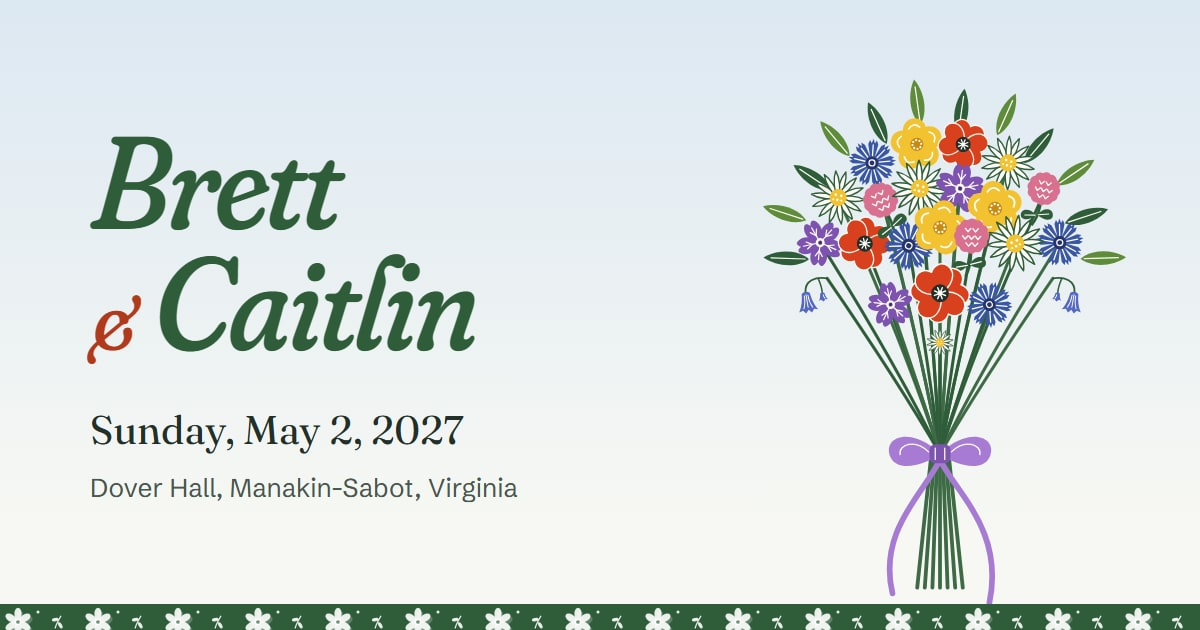
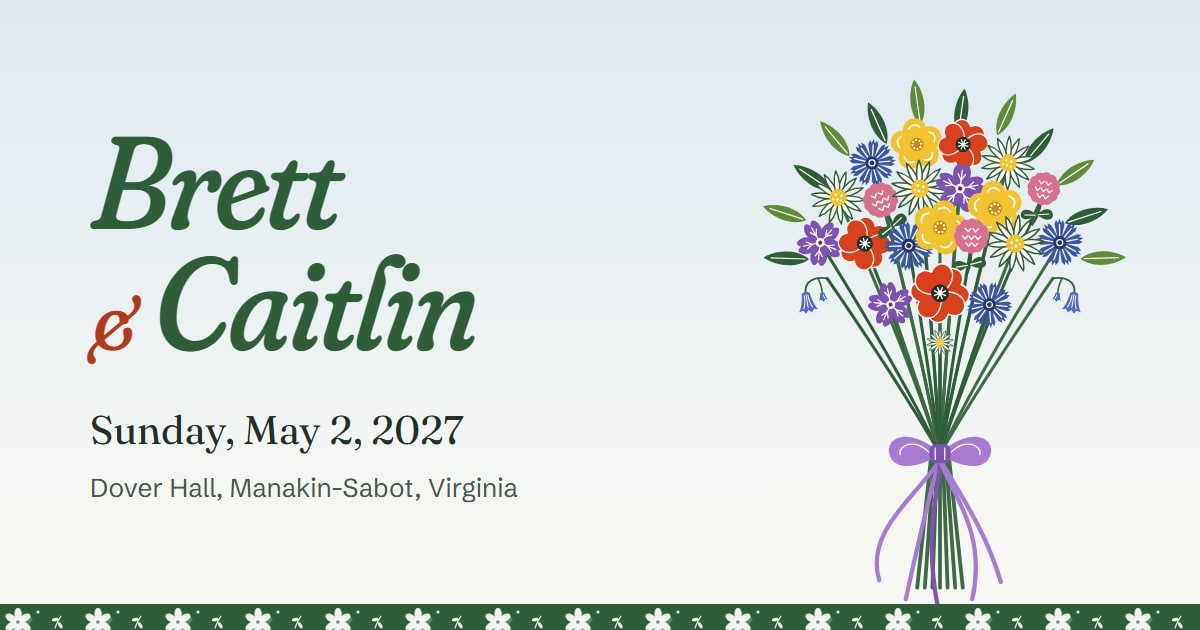
Bouquet: five lilac ribbon tails instead of two
Claude-Session: https://claude.ai/code/session_019FpUeUr1eTV7yKv5VevKmJ

Changed region(s): [[0.7092, 0.7238, 0.8325, 0.9651]]

diff --git a/src/_data/bouquet.js b/src/_data/bouquet.js
@@ -41,10 +41,12 @@ const placed = flowers.map((f) => ({
   stem: `M${round(f.x)} ${round(f.y)} Q${round(f.x * 0.35 + TIE.x * 0.65)} ${round((f.y + TIE.y) / 2 + 20)} ${TIE.x} ${TIE.y}`,
 }));
 
-// The cut stem ends below the tie, and the bow's two ribbon tails, in lilac (the flower of May) like the bow itself.
+// The cut stem ends below the tie, and the bow's five ribbon tails, in lilac (the flower of May) like the bow itself;
+// the middle one is the deeper lilac of the knot.
 const LILAC = "#A77BD4";
+const LILAC_DEEP = "#7E55AE";
 const ends = [-3, -2, -1, 0, 1, 2, 3].map((k) => `M${TIE.x + k * 3} ${TIE.y} L${TIE.x + k * 8} 556`); // drawn tie-to-end; CSS grows them from the end
-const tails = [[LILAC, 150, 562], [LILAC, 252, 572]]
+const tails = [[LILAC, 136, 548], [LILAC, 164, 568], [LILAC_DEEP, 198, 578], [LILAC, 234, 568], [LILAC, 264, 550]]
   .map(([color, x, y], k) => ({
     color,
     d: `M${TIE.x} ${TIE.y + 6} C${round(TIE.x + (x - TIE.x) * 0.3)} 455 ${x + (k % 2 ? 16 : -16)} 495 ${x} ${y}`,
@@ -63,4 +65,4 @@ const fillerStem = (f) => {
   return stemTo(x, y);
 };
 
-export default { lilac: LILAC, lilacDeep: "#7E55AE", tie: TIE, flowers: placed, fillers: fillers.map((f) => ({ ...f, i: i++, stem: fillerStem(f) })), leaves, ends, tails };
+export default { lilac: LILAC, lilacDeep: LILAC_DEEP, tie: TIE, flowers: placed, fillers: fillers.map((f) => ({ ...f, i: i++, stem: fillerStem(f) })), leaves, ends, tails };

diff --git a/PLAN.md b/PLAN.md
@@ -5,7 +5,7 @@
 
 RSVP is built and tested (`node tools/test-rsvp.mjs`: 44 checks covering the Apps Script backend against a fake sheet and the form in a browser). It stays switched off until Brett deploys the script (`apps-script/SETUP.md`) and `site.json.rsvpEndpoint` is set.
 
-**Change (2026-10-23):** Brett and Caitlin want the midsommar feel without literal midsummer imagery. The maypole is replaced everywhere (Home hero, logo mark, favicon, share card) by a hand-tied bouquet of the same seven flowers. Its bow and two ribbon tails are a single lilac (the flower of May), at Caitlin's request (2026-10-24). Its layout lives in `src/_data/bouquet.js`, and it's drawn by `_includes/bouquet.njk`. Later sections of this plan that describe the maypole are superseded.
+**Change (2026-10-23):** Brett and Caitlin want the midsommar feel without literal midsummer imagery. The maypole is replaced everywhere (Home hero, logo mark, favicon, share card) by a hand-tied bouquet of the same seven flowers. Its bow and five ribbon tails are a single lilac (the flower of May), at Caitlin's request (2026-10-24). Its layout lives in `src/_data/bouquet.js`, and it's drawn by `_includes/bouquet.njk`. Later sections of this plan that describe the maypole are superseded.
 
 Checks at launch: `npm run check` is clean (links and HTML). Lighthouse on mobile gives Performance 92–94, Accessibility 100 and Best Practices 100. SEO is 63 on purpose, because of noindex.
 
